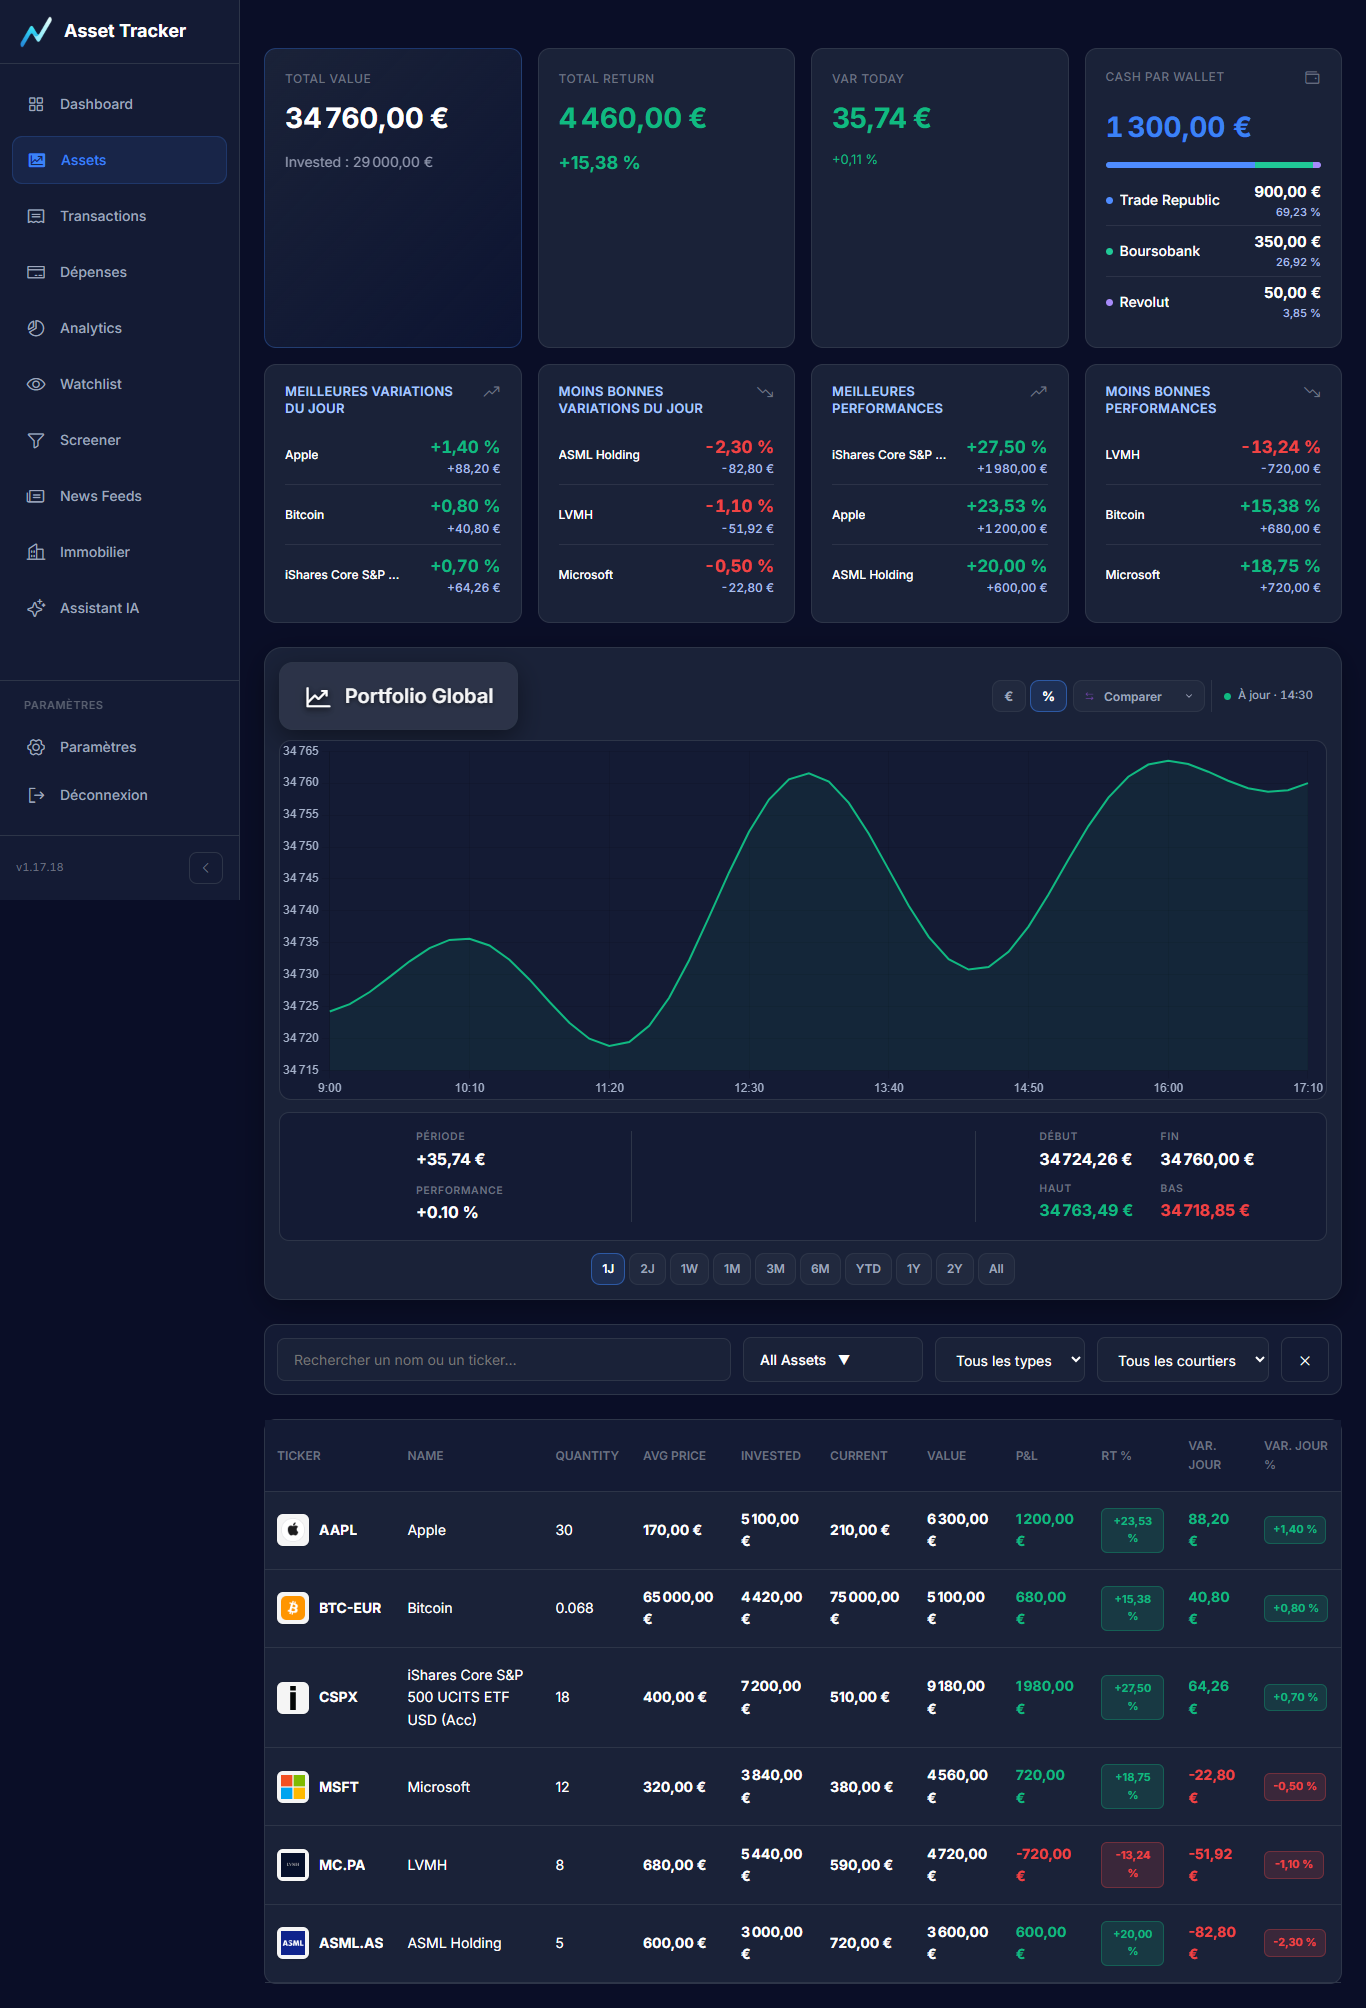
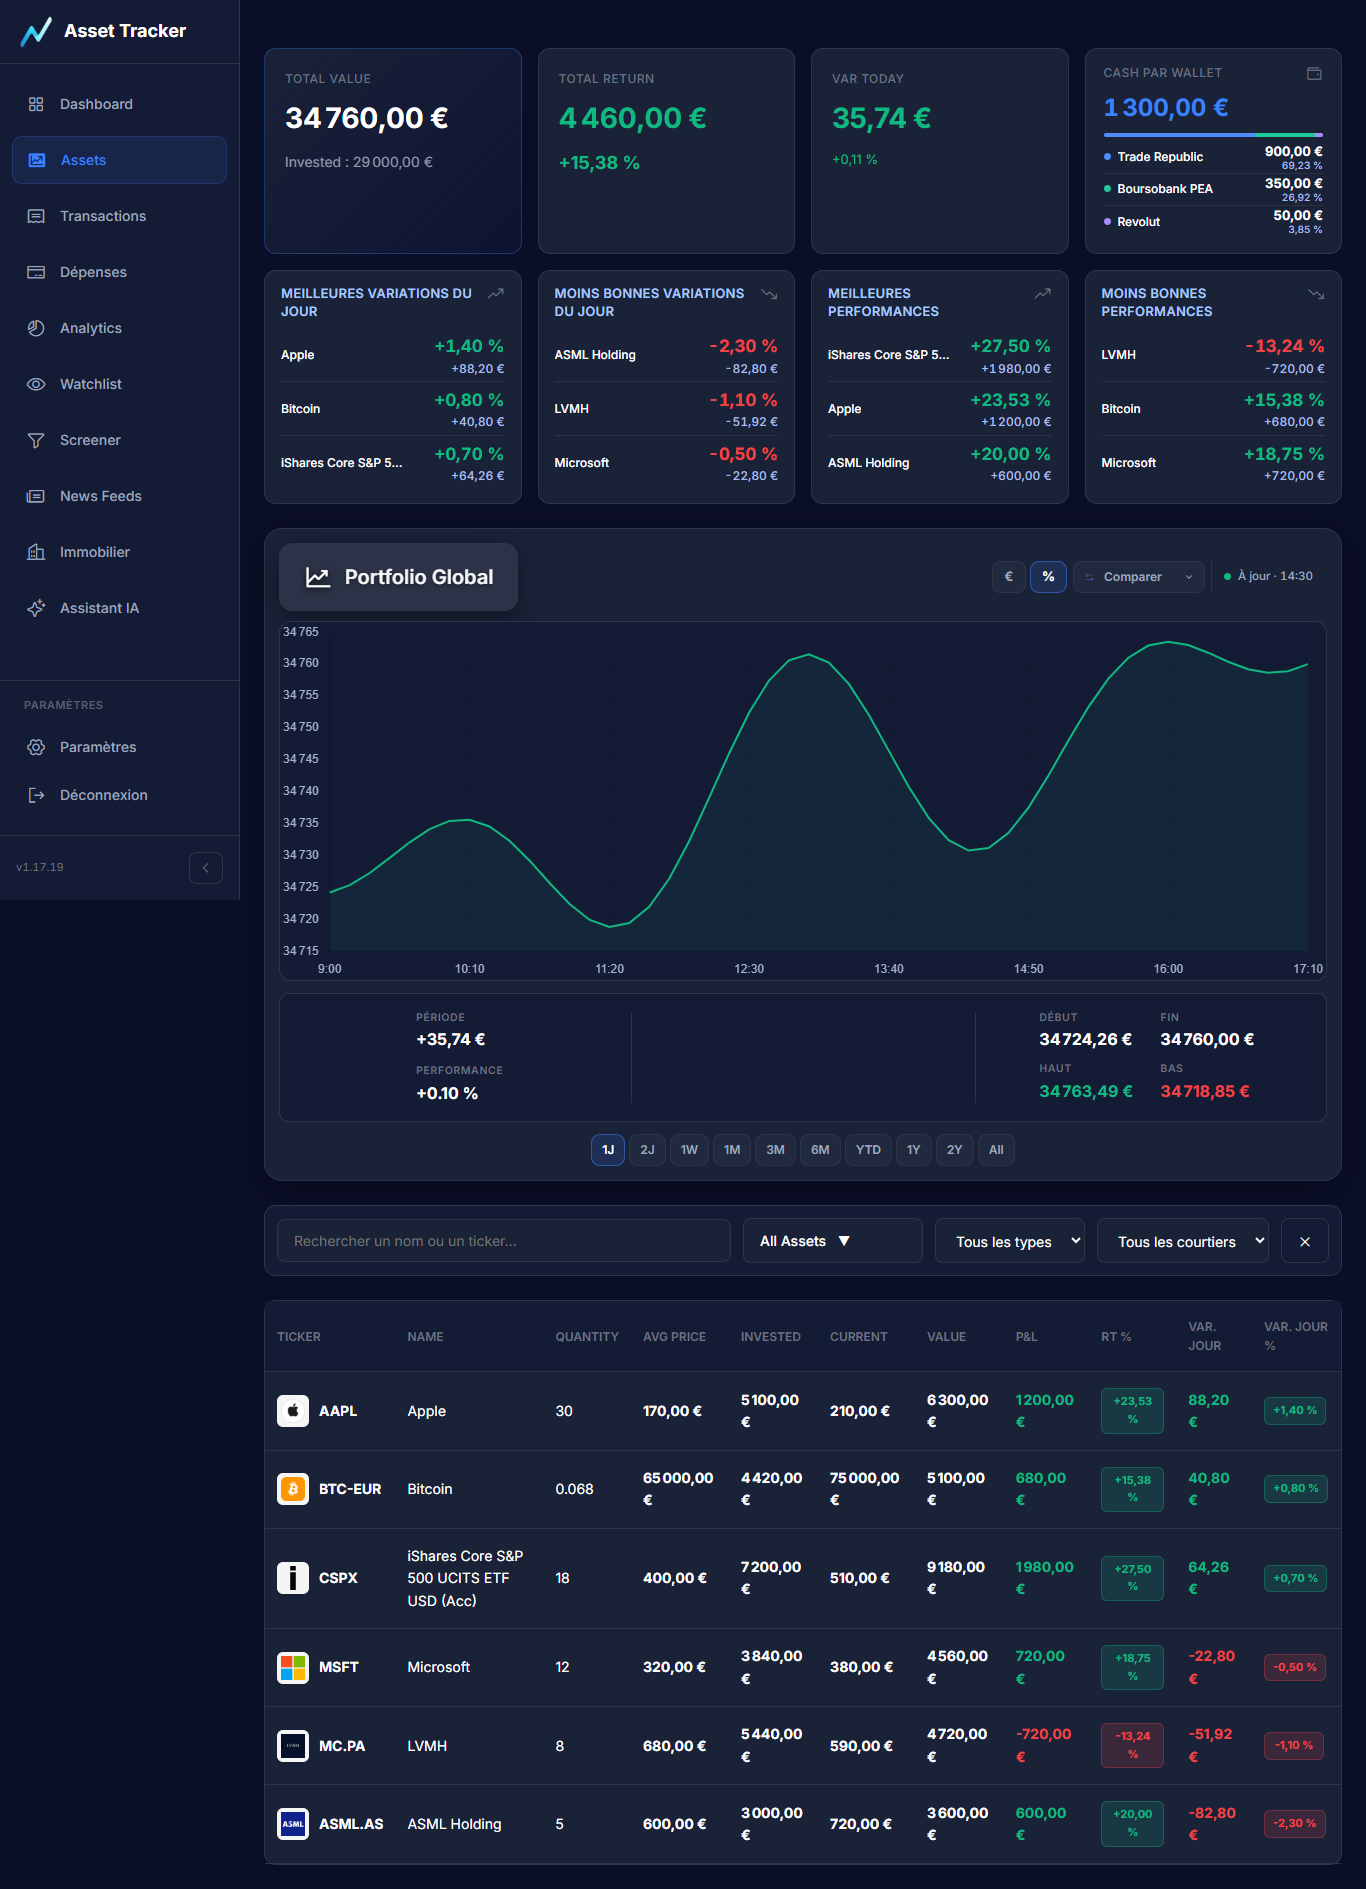
fix codex style  investments kpi 3

diff --git a/css/investments.css b/css/investments.css
@@ -855,25 +855,46 @@
     align-items: stretch;
 }
 
-.summary-grid > .investment-cash-insight { text-align: left; }
+.summary-grid > .investment-cash-insight {
+    padding: 16px 18px;
+    text-align: left;
+}
+.summary-grid > .investment-cash-insight .kpi-header {
+    min-height: 20px;
+    margin-bottom: 4px;
+}
 .summary-grid > .investment-cash-insight .stat-label {
     color: var(--text-muted);
     font-size: 12px;
     font-weight: 500;
     letter-spacing: 0.5px;
 }
-.summary-grid > .investment-cash-insight .cash-insight-total { font-size: 28px; }
+.summary-grid > .investment-cash-insight .cash-insight-total {
+    margin-bottom: 6px;
+    font-size: 24px;
+}
+.summary-grid > .investment-cash-insight .wallet-track {
+    height: 4px;
+    margin-bottom: 4px;
+}
 .summary-grid > .investment-cash-insight .wallet-table th,
 .summary-grid > .investment-cash-insight .wallet-table td {
-    height: 42px;
-    padding: 4px 0;
+    height: 32px;
+    padding: 2px 0;
+    line-height: 1;
+}
+.summary-grid > .investment-cash-insight .wallet-table th { font-size: clamp(12px, 0.75vw, 14px); }
+.summary-grid > .investment-cash-insight .wallet-table td { font-size: clamp(13px, 0.83vw, 15px); }
+.summary-grid > .investment-cash-insight .wallet-table .wallet-share {
+    margin-top: 2px;
+    font-size: clamp(10px, 0.62vw, 11px);
 }
 
 .investment-insights .investment-insight {
     min-width: 0;
     width: auto;
-    min-height: 236px;
-    padding: 18px 20px;
+    min-height: 212px;
+    padding: 14px 16px;
     text-align: left;
     overflow: hidden;
     display: flex;
@@ -949,6 +970,12 @@
     text-overflow: ellipsis;
     vertical-align: middle;
     border: 0;
+}
+
+.investment-insights .insight-table th,
+.investment-insights .insight-table td {
+    height: 48px;
+    padding: 5px 0;
 }
 
 .investment-insight .insight-table th {
@@ -1041,7 +1068,7 @@
 .wallet-color-3 { background: #f59e0b; }
 .wallet-color-4 { background: #f472b6; }
 
-@media (max-width: 1300px) {
+@media (max-width: 1250px) {
     .portfolio-summary-enhanced .summary-grid { grid-template-columns: repeat(2, minmax(0, 1fr)); }
     .investment-insights { grid-template-columns: repeat(2, minmax(0, 1fr)); }
 }

diff --git a/css/investments-mobile.css b/css/investments-mobile.css
@@ -74,6 +74,15 @@
         grid-row: 3;
     }
 
+    .summary-grid > .investment-cash-insight .wallet-table th,
+    .summary-grid > .investment-cash-insight .wallet-table td {
+        height: 42px;
+        padding: 5px 0;
+    }
+    .summary-grid > .investment-cash-insight .wallet-table th { font-size: 14px; }
+    .summary-grid > .investment-cash-insight .wallet-table td { font-size: 15px; }
+    .summary-grid > .investment-cash-insight .wallet-table .wallet-share { font-size: 11px; }
+
     /* Adjust font sizes for compact 2-col view */
     .summary-card-value {
         font-size: 20px !important;

diff --git a/investments.html b/investments.html
@@ -14,8 +14,8 @@
     <link rel="stylesheet" href="css/variables.css">
     <link rel="stylesheet" href="css/layout.css?v=51">
     <link rel="stylesheet" href="css/components.css?v=3">
-    <link rel="stylesheet" href="css/investments.css?v=62">
-    <link rel="stylesheet" href="css/investments-mobile.css?v=8">
+    <link rel="stylesheet" href="css/investments.css?v=63">
+    <link rel="stylesheet" href="css/investments-mobile.css?v=9">
     <link rel="stylesheet" href="css/investments-table-compact.css?v=7">
     <link rel="stylesheet" href="css/chart-toolbar.css?v=7">
 

diff --git a/audit/investments-audit-2026-10-12.md b/audit/investments-audit-2026-10-12.md
@@ -4,15 +4,15 @@ Date : 12 octobre 2026. Page : `investments.html`, intitulée « Assets » dans 
 
 ## Suivi — deux rangées de quatre cartes
 
-Le choix final est **deux rangées de quatre cartes sur bureau** : Total Value, Total Return, Var Today et Cash par wallet sur la première ; les quatre classements sur la seconde. Cash conserve son total, sa barre de répartition et le détail de chaque wallet. L'espacement de ses lignes est resserré pour limiter la hauteur de la première rangée. À 1 300 px et en dessous, chaque groupe passe sur deux colonnes ; sur mobile, Cash s'affiche sous les trois KPI principaux et les classements se suivent sur une colonne. Le graphique reste au-dessus du tableau.
+Le choix final est **deux rangées compactes de quatre cartes sur bureau** : Total Value, Total Return, Var Today et Cash par wallet sur la première ; les quatre classements sur la seconde. Cash conserve son total, sa barre de répartition et le détail de chaque wallet. Ses lignes, le total et la barre ont été resserrés pour éviter que les trois autres KPI soient étirés par une grande zone vide ; les lignes des classements sont également plus courtes. À 1 250 px et en dessous, chaque groupe passe sur deux colonnes ; sur mobile, Cash s'affiche sous les trois KPI principaux avec des lignes de wallets plus espacées, et les classements se suivent sur une colonne. Le graphique reste au-dessus du tableau.
 
-Vérification : **755 tests réussis sur 755, 94 fichiers sur 94** ; Chrome isolé à douze largeurs de 360 à 1 920 px, dont 1 300 et 1 301 px. Au-dessus de 1 300 px, les quatre KPI principaux partagent une rangée et les quatre classements la suivante. Aucun montant de classement, nom ou solde de wallet du jeu d'essai n'est coupé ; le rendu mobile à 390 px reste lisible. Le jeu d'essai comprend trois wallets. Le composant de rendu replace aussi une ancienne carte Cash dans la première rangée quand la page gardait l'ancien HTML en mémoire. Captures : [bureau 1 366 px](investments-preview-1366-insights.png), [grand bureau](investments-preview-1920-insights.png), [mobile](investments-preview-390-insights.png). Ces captures utilisent des données fictives.
+Vérification : **755 tests réussis sur 755, 94 fichiers sur 94** avant ce dernier réglage CSS ; Chrome isolé à treize largeurs de 360 à 1 920 px, dont 1 250 et 1 251 px. Au-dessus de 1 250 px, les quatre KPI principaux partagent une rangée de **206 px** dans le jeu d'essai à trois wallets, puis les quatre classements occupent la suivante ; le graphique commence vers **528 px** à 1 366 px. Aucun montant de classement, nom ou solde de wallet du jeu d'essai n'est coupé. Le composant de rendu replace aussi une ancienne carte Cash dans la première rangée quand la page gardait l'ancien HTML en mémoire. Captures : [bureau 1 366 px](investments-preview-1366-insights.png), [grand bureau](investments-preview-1920-insights.png), [mobile](investments-preview-390-insights.png). Ces captures utilisent des données fictives.
 
 ## Suivi — style Dashboard et détail des wallets
 
 La capture de vérification montrait les nouvelles listes à l'intérieur des anciennes cartes HTML (anciens libellés Best/Worst, aucun conteneur `cash-wallets`). Le rendu Investment complète désormais cette structure lorsqu'une page déjà ouverte garde l'ancien HTML : titres, icônes, cartes et conteneur Cash sont créés avant la mise à jour. Si un ancien appelant ne transmet que le montant total de cash, le détail est reconstruit avec le moteur existant uniquement lorsqu'il se réconcilie au centime avec ce montant. Sinon, l'indisponibilité du détail est affichée explicitement.
 
-Les cartes secondaires reprennent maintenant la présentation du Dashboard : nom de l'actif, pourcentage et montant en euros sur deux niveaux, séparateurs discrets et en-têtes avec icônes. La carte Cash donne le total, la barre de répartition et **chaque wallet avec son solde et sa part**. L'ordre graphique puis tableau est conservé. Contrôles effectués à cette étape : **754 tests réussis sur 754, 94 fichiers sur 94** ; Chrome isolé à six largeurs. Les captures liées dans le suivi le plus récent ont depuis été régénérées pour la disposition sur cinq cartes. Un portefeuille connecté n'a pas été vérifié.
+Les cartes secondaires reprennent maintenant la présentation du Dashboard : nom de l'actif, pourcentage et montant en euros sur deux niveaux, séparateurs discrets et en-têtes avec icônes. La carte Cash donne le total, la barre de répartition et **chaque wallet avec son solde et sa part**. L'ordre graphique puis tableau est conservé. Contrôles effectués à cette étape : **754 tests réussis sur 754, 94 fichiers sur 94** ; Chrome isolé à six largeurs. Les captures liées dans le suivi le plus récent ont depuis été régénérées pour la disposition actuelle. Un portefeuille connecté n'a pas été vérifié.
 
 ## Suivi — cartes de synthèse Investment
 

diff --git a/RELEASES.md b/RELEASES.md
@@ -44,6 +44,7 @@ sont pas assimilés à de nouvelles fonctionnalités.
 | `1.17.17` | 2026-10-12 | fix codex style investments kpi | — |
 | `1.17.18` | 2026-10-12 | fix codex style investments kpi 1 | — |
 | `1.17.19` | 2026-10-12 | fix codex style investments kpi 2 | — |
+| `1.17.20` | 2026-10-12 | fix codex style investments kpi 3 | — |
 
 Les messages de commit pilotent les nouvelles versions. Les scripts de
 déploiement ajoutent désormais aussi chaque correctif à ce tableau avant les
